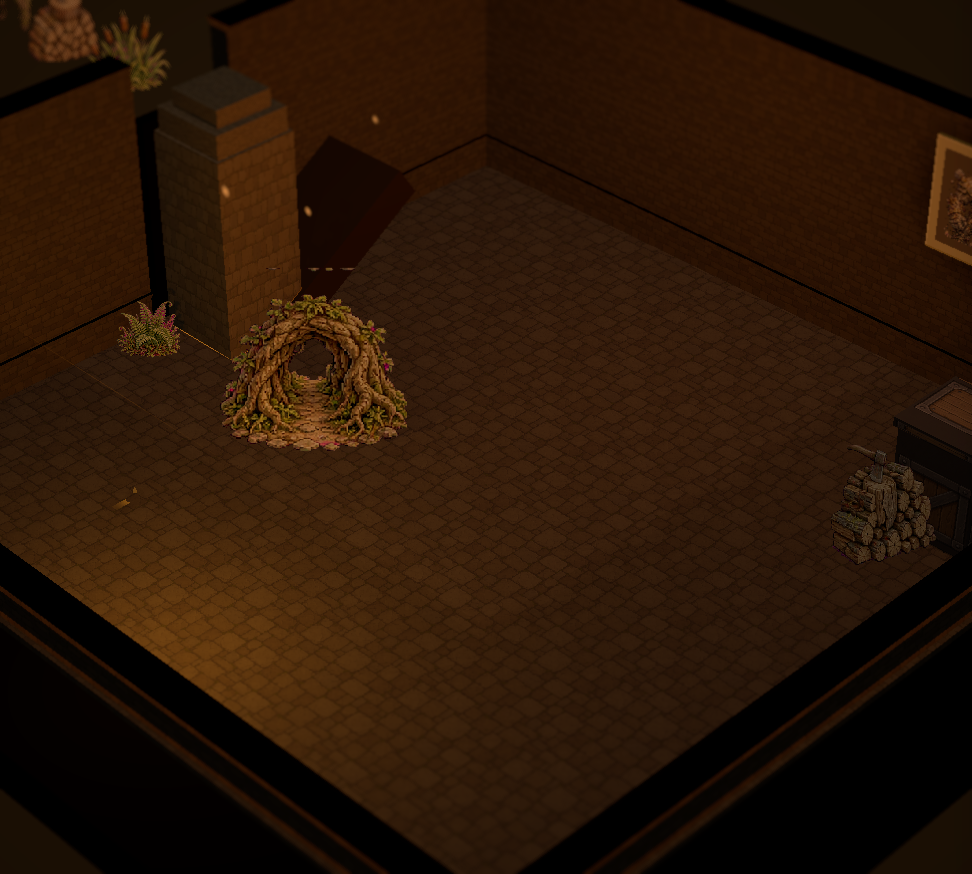
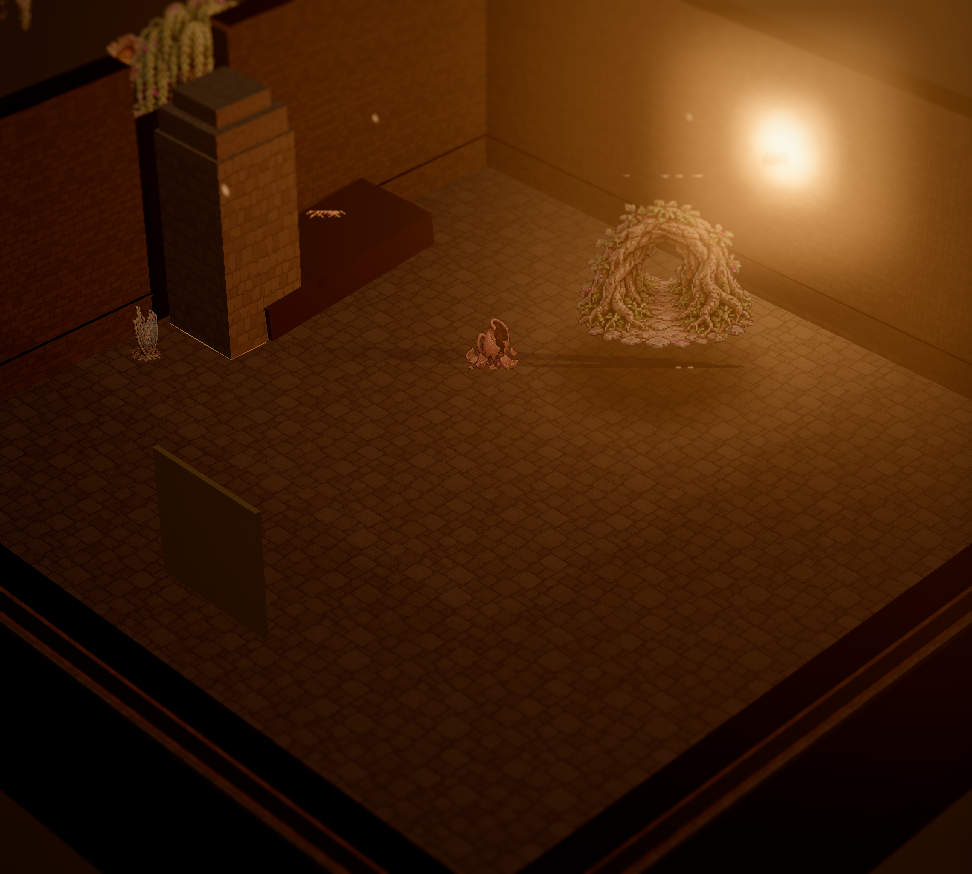
fix(d4b): door presentation — hinge-edge axis, grounded broken leaf, apron-clear dressing
Adam's D4 taste-gate FAILED on presentation (docs/STAGE-D-WAVE-SPECS.md D4b, 3 rulings):

1. HINGE-EDGE AXIS (src/ui/theater-boot.js): retires D4's centerline pivot. The leaf's
   geometry is translated so its own local origin sits at one jamb edge (hash-picked
   deterministically per sourceRef, itrDoorHingeSign) instead of the shape's centerline;
   rotation.y now genuinely pivots the far edge while the hinge-edge vertex column stays
   fixed in world space. Swing angles updated to ruling 3's bands (ajar 22deg, open
   105deg, was 40/85). Broken tips near-flat (78-90deg, was ~48-62deg) with a computed
   Y-lift so its lowest point sits in true floor contact instead of the old fixed -0.1
   sag — grounded, never the old mid-air diagonal slab. The BW4 tween animates the same
   object, so it rotates about the same hinge axis throughout.

2. D4B FINDING + FIX (src/engine/place-dressing.js): dpPlaceRoom's general dressing pool
   (focal/setPiece, blocker, wall-hang, filler) had NO door-apron exclusion at all — only
   place-distribution.js's (disabled) realization pass and room-grammar's interactables
   path knew about door aprons. A large setPiece could roll straight onto a door's direct
   approach (confirmed live: a "billboardvine" set piece sat on the D4 study card's own
   door-shut capture, exactly Adam's "vine arch square in the door approach" complaint).
   New dpDoorApronCells (mirrors place-distribution.js/room-grammar.js's own formula)
[…]

diff --git a/src/ui/theater-boot.js b/src/ui/theater-boot.js
@@ -3526,12 +3526,18 @@ function addInteriorContactBlob(group, x, z, texWidth, floorTop){
 // flat quad" law, scoped honestly to the ONE archetype this wave ships.
 //
 // STATE (D0 S0-3/Law 6 — "a door swings, never a teleport"): shut/ajar/open read as an increasing
-// swing angle about the leaf's OWN vertical centerline (a documented simplification of a true edge-
-// hinge — this render channel has no per-door hinge-side geometry fact to pivot on yet; the swing
-// is real, continuous, and tween-driven either way, never a snap); broken tilts forward about its
-// own base edge (itrDoorShape's y=0 floor edge) plus a small KILTER-style deterministic jitter
-// (kilterFor, this file's own THE KILTER convention, reused rather than reinvented) so a broken door
-// reads as fallen/off-kilter, never randomly per render.
+// swing angle about a FIXED VERTICAL AXIS AT ONE JAMB EDGE (docs/STAGE-D-WAVE-SPECS.md D4b ruling 3,
+// "a door opens on hinges... that axis usually isn't the center of the door" — retires D4's own
+// centerline-pivot simplification, Adam's taste-gate FAIL). The hinge side is picked once per door
+// via a deterministic hash off `sourceRef` (itrDoorHingeSign, below) — SEAM: there is still no rolled
+// hinge-side fact in D1's interactables registry, so this hash-pick stands in for one until a real
+// fact exists; the SAME sourceRef always resolves the SAME side, a different sourceRef may resolve
+// the other. The swing is real, continuous, and tween-driven either way, never a snap. Broken tilts
+// forward (near-flat, DETACHED+GROUNDED per ruling 2 — never the old ~50deg mid-air diagonal read)
+// about its own base edge (itrDoorShape's y=0 floor edge) plus a small KILTER-style deterministic
+// jitter (kilterFor, this file's own THE KILTER convention, reused rather than reinvented) so a broken
+// door reads as fallen/off-kilter, never randomly per render — and a computed Y-lift (derived from
+// the tip angle + extrudeDepth, never a magic sag) keeps its lowest point in true floor contact.
 const ITR_DOOR_ARCH_KEYWORDS = Object.freeze(["arch", "gothic", "pointed", "ogee", "vault"]);
 function itrDoorIsArched(entry){
   const text = ((entry && entry.name) || "") + " " + ((entry && entry.flavor) || "");
@@ -3556,9 +3562,24 @@ function itrDoorShape(arched){
   shape.lineTo(-w / 2, 0);
   return shape;
 }
-// state -> swing angle about the leaf's own vertical centerline (degrees). `null` (broken) means "not
-// a swing state" — handled separately below via the tip-forward transform.
-const ITR_DOOR_SWING_DEG = Object.freeze({ shut: 0, ajar: 40, open: 85 });
+// state -> swing angle about the leaf's own HINGE axis (degrees, docs/STAGE-D-WAVE-SPECS.md D4b
+// ruling 3: "ajar≈20-25°, open≈100-110° (swung toward the wall, leaf face visible edge-on to the
+// aperture)"). `null` (broken) means "not a swing state" — handled separately below via the
+// tip-forward transform.
+const ITR_DOOR_SWING_AJAR_DEG = 22;   // ruling 3 range 20-25deg
+const ITR_DOOR_SWING_OPEN_DEG = 105;  // ruling 3 range 100-110deg
+const ITR_DOOR_SWING_DEG = Object.freeze({ shut: 0, ajar: ITR_DOOR_SWING_AJAR_DEG, open: ITR_DOOR_SWING_OPEN_DEG });
+// D4b ruling 2: broken must read as DETACHED and GROUNDED (leaning/flat at the threshold — min-Y in
+// floor contact), never the old ~48-62deg mid-air diagonal slab. Base tip 84deg +/- a 6deg KILTER-
+// style jitter (kilterFor's own +/-4deg yaw spread * this multiplier) keeps the range 78-90deg —
+// capped at <=90 so the grounding-lift formula below (which assumes cos(tip)>=0) stays valid.
+const ITR_DOOR_BROKEN_TIP_BASE_DEG = 84;
+const ITR_DOOR_BROKEN_TIP_JITTER_MULT = 1.5;
+const ITR_DOOR_BROKEN_GROUND_CLEARANCE = 0.01; // a hair above true floor contact — same "just above, never embedded" idiom as INTERIOR_DECAL_Y_OFFSET
+function itrDoorBrokenTipRad(sourceRef){
+  const k = kilterFor("d4-door-broken:" + (sourceRef || ""));
+  return (ITR_DOOR_BROKEN_TIP_BASE_DEG + k.yawDeg * ITR_DOOR_BROKEN_TIP_JITTER_MULT) * Math.PI / 180;
+}
 function itrDoorStateColor(state){
   switch(state){
     case "open": return 0x8a6a42;
@@ -3567,19 +3588,47 @@ function itrDoorStateColor(state){
     default: return 0x6a4a2e; // shut
   }
 }
+// HINGE SIDE (D4b ruling 3): deterministic per sourceRef — a hash-pick of one jamb, since D1's
+// interactables registry carries no rolled hinge-side fact yet (documented SEAM: the moment one
+// exists, this resolves it instead of hashing). +1 -> the leaf's local origin (post geo-translate,
+// interiorBuildInteractableDoorMesh below) sits at the LEFT jamb (world x=-ITR_DOOR_WIDTH/2 off the
+// door cell's own center) and the leaf swings toward +x; -1 -> the RIGHT jamb, swinging toward -x.
+// Same FNV-1a seeded-hash convention as kilterFor (never Math.random) — the SAME sourceRef always
+// resolves the SAME side; a different sourceRef may resolve the other.
+function itrDoorHingeSign(sourceRef){
+  const s = "d4b-hinge:" + String(sourceRef == null ? "" : sourceRef);
+  let h = 2166136261 >>> 0;
+  for(let i = 0; i < s.length; i++){ h = ((h ^ s.charCodeAt(i)) * 16777619) >>> 0; }
+  const u = (h >>> 8) / 16777216; // top 24 bits -> [0,1)
+  return u < 0.5 ? 1 : -1;
+}
 // one hinge-group-plus-leaf-mesh assembly per placed door entry. `hinge` carries the cell position +
 // the corridor-axis orientation (perpendicular to the wall the door interrupts); `leaf` (its one
 // child) carries the state pose — swing about Y for shut/ajar/open, tip-forward about X for broken.
-// Returns null for anything this unit doesn't render (reserve entries, missing coordinates).
+// D4b ruling 3: the leaf's GEOMETRY is translated so its own local origin sits at the hinge jamb edge
+// (never the shape's centerline), and `leaf.position.x` is offset by that same edge so the physical
+// hinge point lands at the correct jamb — rotation.y then genuinely pivots about that fixed jamb
+// point (the far edge sweeps; the hinge-edge vertex column never moves), instead of the retired D4
+// centerline spin. Returns null for anything this unit doesn't render (reserve entries, missing
+// coordinates).
 function interiorBuildInteractableDoorMesh(entry, cx, cz, floorTopMap){
   if(!entry || entry.reserve || entry.x == null || entry.y == null) return null;
   const extrudeDepth = (typeof entry.extrudeDepth === "number" && entry.extrudeDepth > 0) ? entry.extrudeDepth : ITR_DOOR_FALLBACK_DEPTH;
   const arched = itrDoorIsArched(entry);
   const shape = itrDoorShape(arched);
+  // HINGE-EDGE AXIS (D4b ruling 3): itrDoorShape's own footprint is symmetric about x=0 (the
+  // centerline) — geo.translate shifts that local origin OFF the centerline and onto whichever jamb
+  // edge (x=-w/2 or x=+w/2) itrDoorHingeSign picks for this sourceRef, so the mesh's own local (0,0,0)
+  // IS the hinge point. `edgeX` is that jamb's ORIGINAL (pre-translate) x — leaf.position.x is set to
+  // it below so the physical hinge still lands at the correct world offset from the door cell's
+  // center (unchanged from D4: at rest (rotation=0) the leaf occupies the exact same span as before).
+  const hingeSign = itrDoorHingeSign(entry.sourceRef);
+  const edgeX = hingeSign > 0 ? -ITR_DOOR_WIDTH / 2 : ITR_DOOR_WIDTH / 2;
   const geo = new THREE.ExtrudeGeometry(shape, { depth: extrudeDepth, bevelEnabled: false, curveSegments: 10 });
-  geo.translate(0, 0, -extrudeDepth / 2); // center the extrusion depth on the aperture plane
+  geo.translate(-edgeX, 0, -extrudeDepth / 2); // origin -> hinge jamb edge (x); center the extrusion depth on the aperture plane (z), unchanged
   const mat = new THREE.MeshLambertMaterial({ color: itrDoorStateColor(entry.state), transparent: true, opacity: 1 });
   const leaf = new THREE.Mesh(geo, mat);
+  leaf.position.x = edgeX; // re-anchor: the (now hinge-edge) origin sits at the true jamb offset from the cell center
   leaf.castShadow = true; leaf.receiveShadow = true;
   leaf.userData = { isDoorLeaf: true };
 
@@ -3596,18 +3645,23 @@ function interiorBuildInteractableDoorMesh(entry, cx, cz, floorTopMap){
   hinge.rotation.y = ew ? Math.PI / 2 : 0;
 
   if(entry.state === "broken"){
-    // KILTER-style deterministic tilt (never a random per-render jitter, this file's own THE KILTER
-    // convention reused rather than reinvented) — a broken door tips forward off its own base edge.
-    const k = kilterFor("d4-door-broken:" + (entry.sourceRef || ""));
-    leaf.rotation.x = (55 + k.yawDeg * 3.5) * Math.PI / 180; // ~48-62deg tip, deterministic per sourceRef
-    leaf.position.y -= 0.1; // a broken leaf sags off true floor contact
+    // D4b ruling 2: DETACHED + GROUNDED — a near-flat forward tip (itrDoorBrokenTipRad, 78-90deg,
+    // KILTER-seeded per sourceRef) about the leaf's own base edge (y=0, unaffected by the hinge-edge
+    // x-translate above), with a computed Y-lift so its lowest point sits in true floor contact
+    // instead of the old fixed "-0.1 sag" (which is exactly what read as a mid-air diagonal slab).
+    const tipRad = itrDoorBrokenTipRad(entry.sourceRef);
+    leaf.rotation.x = tipRad;
+    // at rotation.x=tipRad, a vertex at local (x, y=0, z=+extrudeDepth/2) maps to world-relative
+    // y' = -[extrudeDepth/2]*sin(tipRad) — the leaf's own lowest point pre-lift. Lifting by that exact
+    // magnitude (plus a hair of clearance) grounds it precisely, never a magic constant.
+    leaf.position.y = (extrudeDepth / 2) * Math.sin(tipRad) + ITR_DOOR_BROKEN_GROUND_CLEARANCE;
   } else {
     const swingDeg = ITR_DOOR_SWING_DEG[entry.state];
     leaf.rotation.y = (typeof swingDeg === "number" ? swingDeg : 0) * Math.PI / 180;
   }
 
   hinge.add(leaf);
-  hinge.userData = { kind: "interactable", archetype: "door", sourceRef: entry.sourceRef, state: entry.state, slug: entry.slug, leaf: leaf, arched: arched };
+  hinge.userData = { kind: "interactable", archetype: "door", sourceRef: entry.sourceRef, state: entry.state, slug: entry.slug, leaf: leaf, arched: arched, hingeSign: hingeSign };
   return hinge;
 }
 // door-swing tween duration — BW4's own 280-350ms "glide, never snap" band (placeCameraTweened's
@@ -3619,8 +3673,7 @@ const ITR_DOOR_SWING_TWEEN_MS = 320;
 // diff/tween path (below) can compute a FROM pose and a TO pose on the SAME axis convention.
 function itrDoorRestPose(state, sourceRef){
   if(state === "broken"){
-    const k = kilterFor("d4-door-broken:" + (sourceRef || ""));
-    return { axis: "x", rad: (55 + k.yawDeg * 3.5) * Math.PI / 180 };
+    return { axis: "x", rad: itrDoorBrokenTipRad(sourceRef) };
   }
   const swingDeg = ITR_DOOR_SWING_DEG[state];
   return { axis: "y", rad: (typeof swingDeg === "number" ? swingDeg : 0) * Math.PI / 180 };
@@ -11474,6 +11527,7 @@ window.Theater._interiorBuildInteractablesForTest = function(interactables, cx, 
 window.Theater._itrDoorShapeForTest = function(arched){ return itrDoorShape(arched); };
 window.Theater._itrDoorIsArchedForTest = function(entry){ return itrDoorIsArched(entry); };
 window.Theater._itrDoorRestPoseForTest = function(state, sourceRef){ return itrDoorRestPose(state, sourceRef); };
+window.Theater._itrDoorHingeSignForTest = function(sourceRef){ return itrDoorHingeSign(sourceRef); };
 window.Theater._resetInteriorDoorStateForTest = function(){ S.interiorDoorStateBySourceRef = {}; };
 
 // BEAUTY-WAVE.md VP1c — TEST-ONLY SEAM, same spirit as the two accessors above: exposes the flat-

diff --git a/src/engine/place-dressing.js b/src/engine/place-dressing.js
@@ -279,6 +279,34 @@ function dpAdjacentToDoor(x, y, plan) {
   });
 }
 
+// D4b FINDING (docs/STAGE-D-WAVE-SPECS.md, Adam's taste-gate ruling 1b): a DOOR cell's own FLOOR
+// neighbors — "the door's direct approach", standing in for a real swing-arc/aisle model this data
+// layer doesn't have (mirrors src/engine/place-distribution.js's pldDoorApronCells / src/engine/
+// room-grammar.js's rgDoorApronCells verbatim — SAME formula, independently reimplemented per this
+// file's own ENGINE PURITY LAW discipline above, so the three necessarily agree byte-for-byte without
+// an import). Before this fix, dpPlaceRoom's general `placeable` pool (focal/setPiece, blocker,
+// wall-hang, filler — every step EXCEPT the seam-softening sub-pass below) had NO apron exclusion at
+// all: a large setPiece could roll straight onto the floor cell directly in front of a door (Adam's
+// taste-gate "there's a vine arch square in the door approach" complaint, confirmed live against the
+// D4 study card). The seam-softening sub-pass's OWN "doorway-adjacent corners" target is deliberately
+// EXEMPT — that's a small, size:"small" texture cue Adam never flagged, not the bug.
+function dpDoorApronCells(room, plan) {
+  const out = new Set();
+  for (let yy = room.y; yy < room.y + room.d; yy++) {
+    for (let xx = room.x; xx < room.x + room.w; xx++) {
+      if (xx < 0 || yy < 0 || xx >= plan.cellW || yy >= plan.cellD) continue;
+      if (plan.cells[yy * plan.cellW + xx] !== SPATIAL_CELL.DOOR) continue;
+      out.add(xx + "," + yy);
+      [[1, 0], [-1, 0], [0, 1], [0, -1]].forEach(([dx, dy]) => {
+        const nx = xx + dx, ny = yy + dy;
+        if (nx < 0 || ny < 0 || nx >= plan.cellW || ny >= plan.cellD) return;
+        if (plan.cells[ny * plan.cellW + nx] === SPATIAL_CELL.FLOOR) out.add(nx + "," + ny);
+      });
+    }
+  }
+  return out;
+}
+
 // the wall-base LINE for a room: its own FLOOR cells that are wall-adjacent, in stable row-major
 // order (dpRoomFloorCells' own order) — a deterministic, roughly-perimeter-following sequence the
 // RHYTHM-style interval sampler below walks across, so sampled fillers spread along the joint
@@ -428,7 +456,14 @@ function dpPlaceRoom(room, plan, roster, rng, seamRoster) {
   const wallHangRoster = roster.filter((e) => e.primary === "wall-hang" && !e.lightAffine);
   const lightRoster = roster.filter((e) => e.lightAffine);
 
-  const shuffledPlaceable = dpShuffle(placeable, rng);
+  // D4b FINDING fix (ruling 1b): exclude the door-apron cells (dpDoorApronCells, above) from the
+  // GENERAL candidate pool ONLY — focal/setPiece (step 2), blocker+wall-hang (step 3/4, both derived
+  // from `wallAdjacent` below), and filler (step 5) all draw from `shuffledPlaceable`, so all four now
+  // skip a door's direct approach. `placeable` itself stays untouched (the seam-softening sub-pass,
+  // step 6, still targets doorway-adjacent corners on purpose — that small size:"small" texture cue
+  // is the intended design, not the bug).
+  const doorApronSet = dpDoorApronCells(room, plan);
+  const shuffledPlaceable = dpShuffle(placeable.filter((c) => !doorApronSet.has(c.x + "," + c.y)), rng);
   const wallAdjacent = dpShuffle(shuffledPlaceable.filter((c) => dpAdjacentToWall(c.x, c.y, plan)), rng);
   // BW2-1b item 2 (placement bias): the FAR-side subset of wallAdjacent — never on the canonical
   // camera side of the room's own center (dpIsCameraSideOfRoom, above) — is the blocker step's
